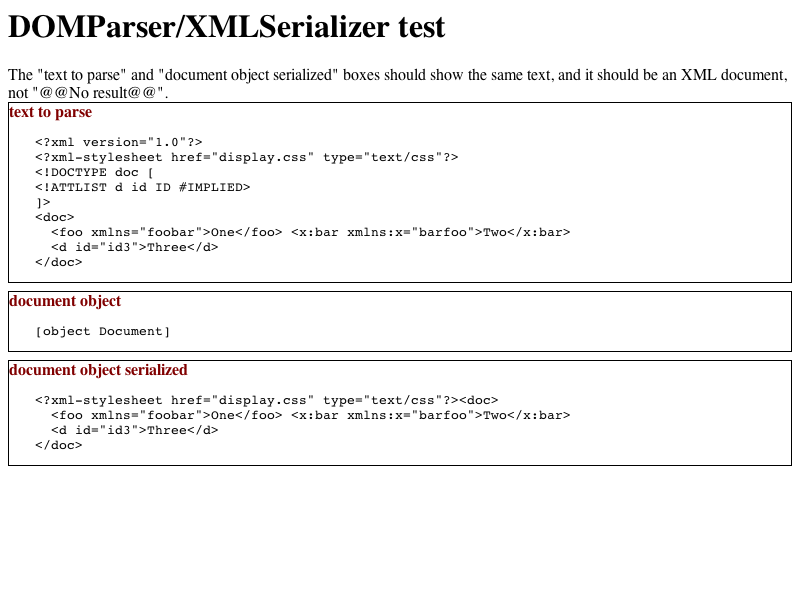
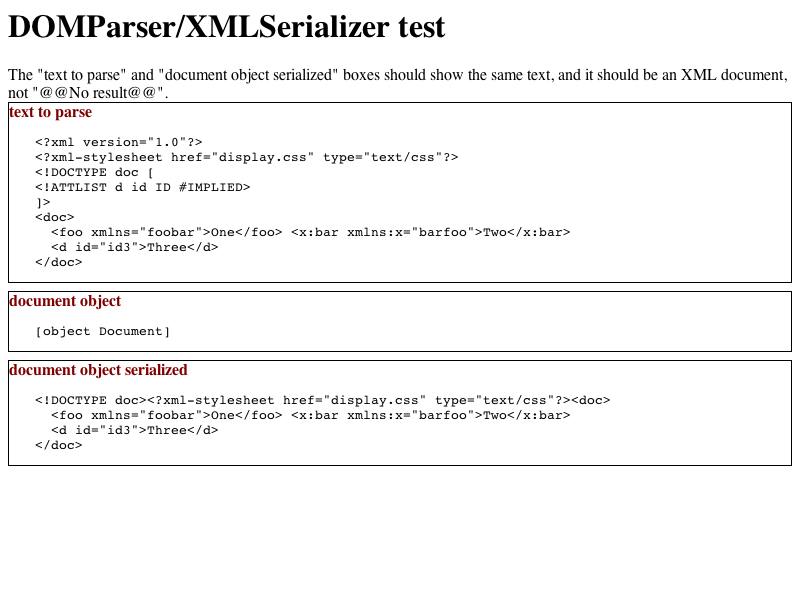
2006-02-14  Eric Seidel  <eseidel@apple.com>
Reviewed by darin.

        Add incremental parsing support to XMLTokenizer.
        This patch also does a few other little things:
        - removes (unused) onHold support from Tokenizer
        - adds serialization of DOCTYPEs for xml documents
        - fixes xslt support to no longer depend on synchronous parsing
        - fixes css styling for pages where xsl recursion is blocked
        http://bugzilla.opendarwin.org/show_bug.cgi?id=6057

        * dom/DocumentImpl.cpp:
        (WebCore::DocumentImpl::DocumentImpl):
        (WebCore::DocumentImpl::createProcessingInstruction):
        (WebCore::DocumentImpl::open):
        (WebCore::DocumentImpl::recalcStyleSelector):
        * dom/dom_xmlimpl.cpp:
        (WebCore::ProcessingInstructionImpl::checkStyleSheet):
        * dom/xml_tokenizer.cpp:
        (WebCore::XMLTokenizer::XMLTokenizer):
        (WebCore::XMLTokenizer::write):
        (WebCore::XMLTokenizer::startElementNs):
        (WebCore::XMLTokenizer::error):
        (WebCore::XMLTokenizer::initializeParserContext):
        (WebCore::XMLTokenizer::finish):
        (WebCore::xmlDocPtrForString):
        (WebCore::parseAttributes):
        * dom/xml_tokenizer.h:
        * khtml/editing/markup.cpp:
        (khtml::startMarkup): DOCTYPE serialization
        * khtml/html/htmltokenizer.cpp:
        (WebCore::HTMLTokenizer::HTMLTokenizer): removed onHold
        (WebCore::HTMLTokenizer::reset): removed onHold
        (WebCore::HTMLTokenizer::begin): removed onHold
[…]

Changed region(s): [[0.0625, 0.66, 0.75, 0.69]]

diff --git a/fast/xsl/resources/xslt-recursion-chain1.css b/fast/xsl/resources/xslt-recursion-chain1.css
@@ -1,0 +1,6 @@
+p.success {
+    display: inline;
+}
+p.failure {
+    display: none;
+}
